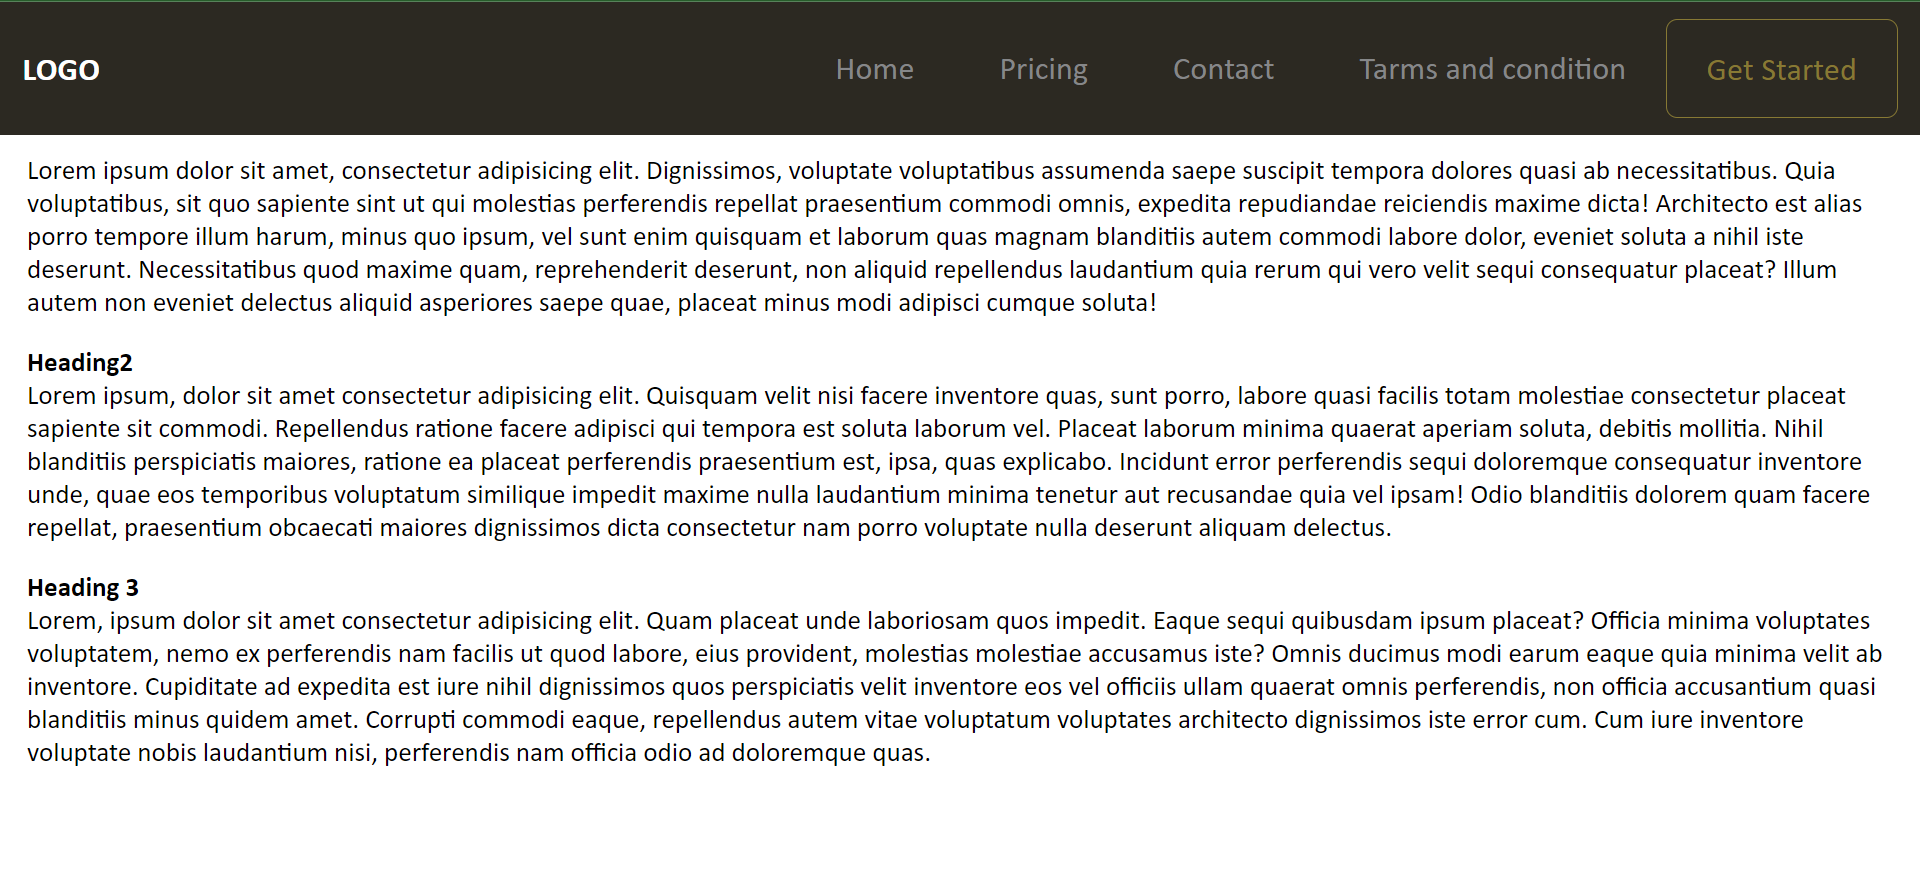
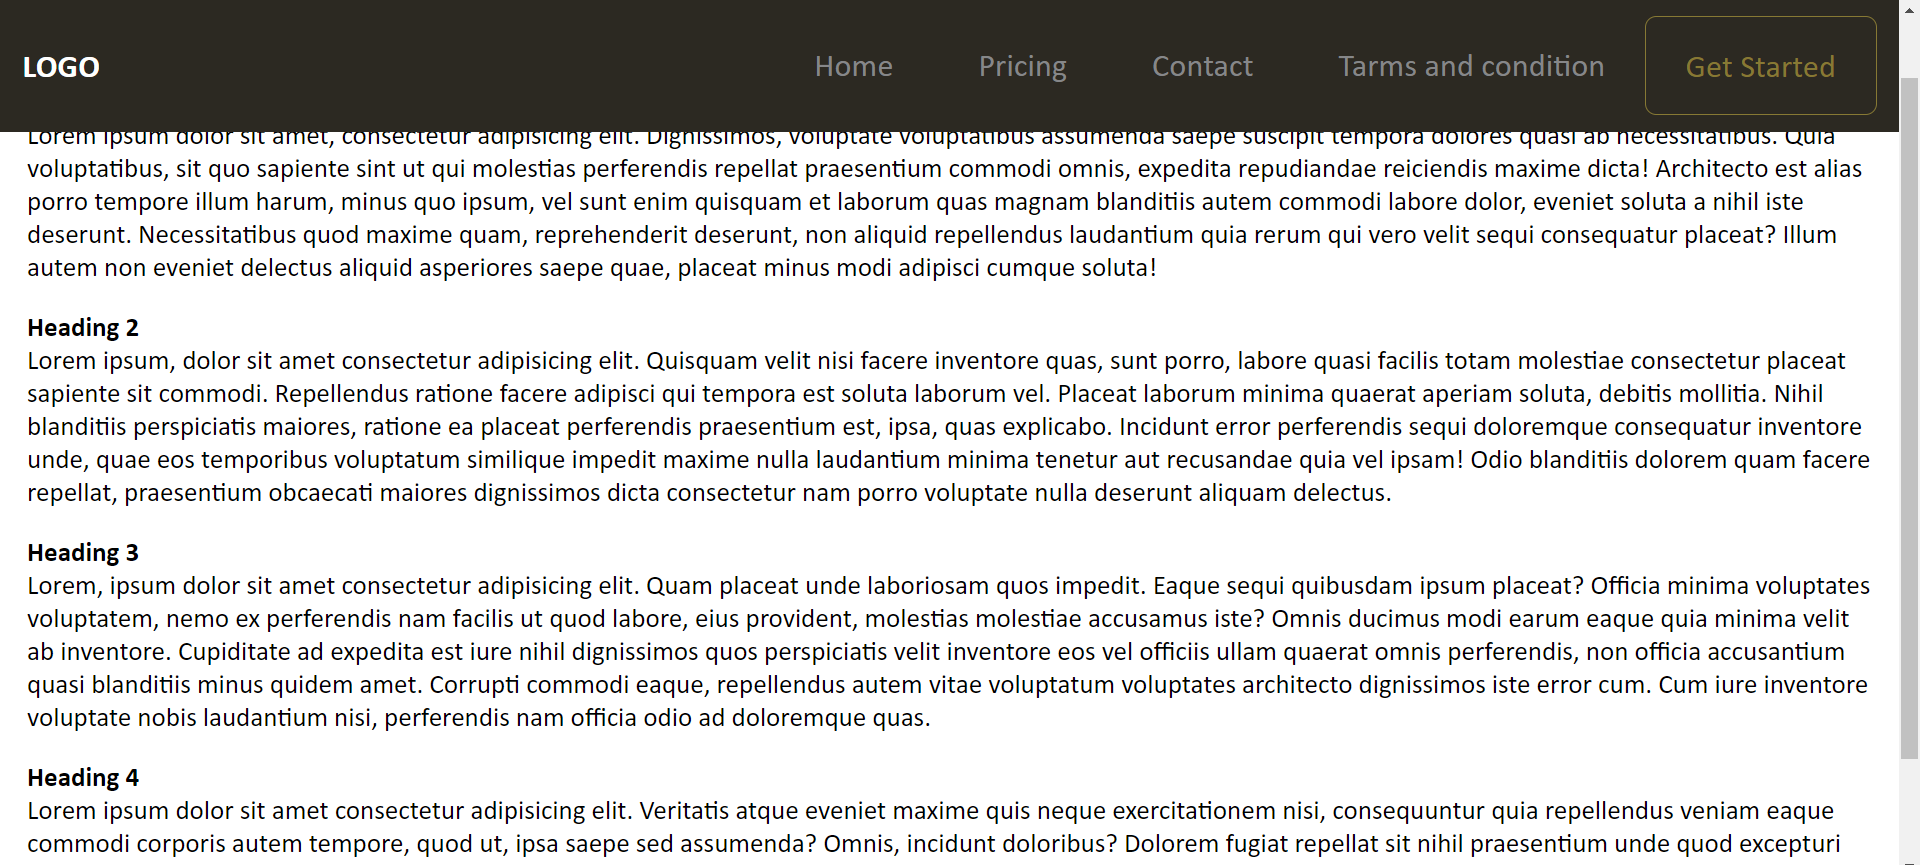
initial commet

diff --git a/task-4/index.html b/task-4/index.html
@@ -22,14 +22,18 @@
         </nav>
     </header>
     <main class="main">
+        <h1 class="heading1">Heading 1</h1>
         <p class="para">Lorem ipsum dolor sit amet, consectetur adipisicing elit. Dignissimos, voluptate voluptatibus assumenda saepe suscipit tempora dolores quasi ab necessitatibus. Quia voluptatibus, sit quo sapiente sint ut qui molestias perferendis repellat praesentium commodi omnis, expedita repudiandae reiciendis maxime dicta! Architecto est alias porro tempore illum harum, minus quo ipsum, vel sunt enim quisquam et laborum quas magnam blanditiis autem commodi labore dolor, eveniet soluta a nihil iste deserunt. Necessitatibus quod maxime quam, reprehenderit deserunt, non aliquid repellendus laudantium quia rerum qui vero velit sequi consequatur placeat? Illum autem non eveniet delectus aliquid asperiores saepe quae, placeat minus modi adipisci cumque soluta!</p>
 
-        <h2 class="heading2">Heading2</h2>
+        <h2 class="heading2">Heading 2</h2>
 
         <p class="para">Lorem ipsum, dolor sit amet consectetur adipisicing elit. Quisquam velit nisi facere inventore quas, sunt porro, labore quasi facilis totam molestiae consectetur placeat sapiente sit commodi. Repellendus ratione facere adipisci qui tempora est soluta laborum vel. Placeat laborum minima quaerat aperiam soluta, debitis mollitia. Nihil blanditiis perspiciatis maiores, ratione ea placeat perferendis praesentium est, ipsa, quas explicabo. Incidunt error perferendis sequi doloremque consequatur inventore unde, quae eos temporibus voluptatum similique impedit maxime nulla laudantium minima tenetur aut recusandae quia vel ipsam! Odio blanditiis dolorem quam facere repellat, praesentium obcaecati maiores dignissimos dicta consectetur nam porro voluptate nulla deserunt aliquam delectus.</p>
         <h3 class="heading3">Heading 3</h3>
 
         <p class="para ">Lorem, ipsum dolor sit amet consectetur adipisicing elit. Quam placeat unde laboriosam quos impedit. Eaque sequi quibusdam ipsum placeat? Officia minima voluptates voluptatem, nemo ex perferendis nam facilis ut quod labore, eius provident, molestias molestiae accusamus iste? Omnis ducimus modi earum eaque quia minima velit ab inventore. Cupiditate ad expedita est iure nihil dignissimos quos perspiciatis velit inventore eos vel officiis ullam quaerat omnis perferendis, non officia accusantium quasi blanditiis minus quidem amet. Corrupti commodi eaque, repellendus autem vitae voluptatum voluptates architecto dignissimos iste error cum. Cum iure inventore voluptate nobis laudantium nisi, perferendis nam officia odio ad doloremque quas.</p>
+
+        <h3 class="heading4">Heading 4</h3>
+        <p class="para">Lorem ipsum dolor sit amet consectetur adipisicing elit. Veritatis atque eveniet maxime quis neque exercitationem nisi, consequuntur quia repellendus veniam eaque commodi corporis autem tempore, quod ut, ipsa saepe sed assumenda? Omnis, incidunt doloribus? Dolorem fugiat repellat sit nihil praesentium unde quod excepturi facilis cupiditate vero, sed autem esse non laborum, veniam vel nisi. Ea esse possimus asperiores, dolores id animi autem magni repellat corrupti amet sapiente! Sapiente vitae esse maiores libero nisi quod quos ipsum, ullam, debitis pariatur atque ipsa asperiores labore minus aut id inventore voluptatem consectetur facere excepturi doloribus consequuntur exercitationem quaerat! Perferendis cumque molestiae perspiciatis nisi?</p>
     </main>
 </body>
 </html>

diff --git a/task-4/styles.css b/task-4/styles.css
@@ -8,8 +8,11 @@
     display: flex;
     justify-content: space-between;
     align-items: center;
+    position: sticky;
+    top: 0; /* Ensure the header sticks to the top */
     background: rgb(44, 41, 34);
     padding: 15px 20px;
+    z-index: 1000; /* Ensure it stays above other content */
 }
 .header .logo{
     color: white;
@@ -37,11 +40,15 @@
     font-size: 1.8rem;
     border: 1px solid rgb(135, 121, 52);
     border-radius: 10px;
-    
+    cursor: pointer;
 }
 
 .navbar a:hover {
     color: white;
+}
+
+.get-started:hover{
+   color: white;  
 }
 
 /* main secton */

diff --git a/task-1/styles.css b/task-1/styles.css
@@ -6,7 +6,6 @@
     position: absolute;
     display: flex;
     justify-content: center;
-    align-items: center;
     border: solid black 0.5px;
 }
 
